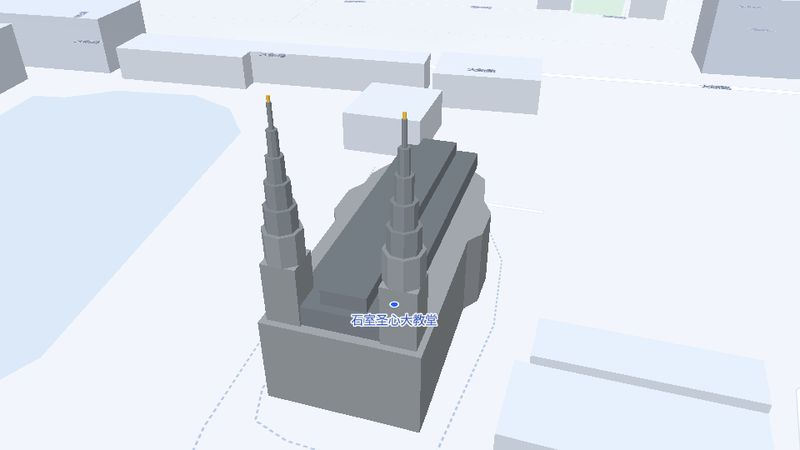
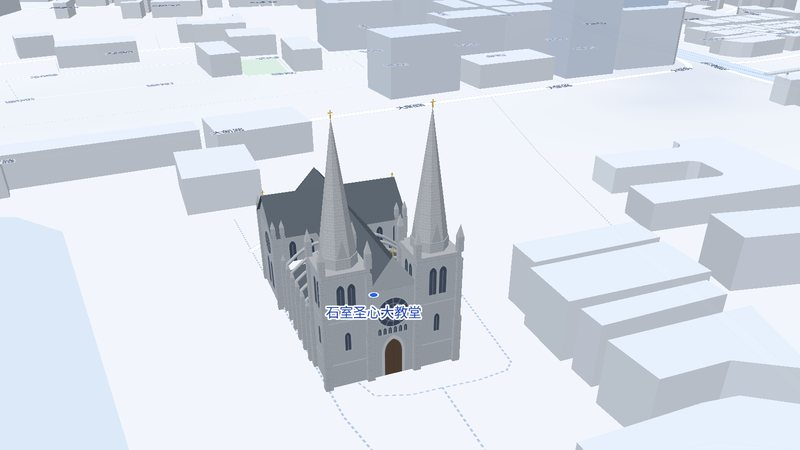
地标名胜：新增广州塔、珠江新城超高层、省博、海心沙、中信广场、广交会展馆、猎德大桥 15 处；点三维建模打开地标卡片
Claude-Session: https://claude.ai/code/session_016HVnGNNWa4PU1gM4ShfCFG

diff --git a/index.html b/index.html
@@ -487,6 +487,7 @@ body.pure .maplibregl-marker,body.pure .detail,body.pure .drawer,body.pure .scri
 .pin-photo.is-active .pb{border-color:var(--blue)}
 .pin-mark .pb{display:flex;align-items:center;gap:0;padding:5px;border-radius:10px;background:var(--blue);color:var(--white);font-size:12.5px;font-weight:500;white-space:nowrap;border:1.5px solid var(--white);transition:gap .2s,padding .2s}
 .pin-mark .pb svg{width:15px;height:15px;flex:none}
+.pin-mark.lm-hid{visibility:hidden;pointer-events:none}
 .pin-mark .lbl{max-width:0;overflow:hidden;transition:max-width .25s}
 .pin-mark:hover .pb,.pin-mark.is-active .pb{gap:6px;padding-right:10px}
 .pin-mark:hover .lbl,.pin-mark.is-active .lbl{max-width:240px}
@@ -1073,6 +1074,68 @@ const SITE = {
       facts: { 正式名称: '广州解放纪念像', 落成: '1959 年', 位置: '越秀区 · 海珠广场' },
       intro: '海珠广场正中的雕像，纪念 1949 年 10 月广州解放，1959 年落成。雕像是一名手持步枪、怀抱鲜花的解放军战士，广场南面就是海珠桥和珠江。',
       thoughts: '写下你对海珠广场的理解。', sample: true },
+    // ---- 城市新地标：地图上用 three.js 建了模的那些（点建模也能打开卡片）。kind: 'new' 在列表里单独成组；
+    //      minor: true 的几座写字楼挨得近，缩小时图钉和别的叠在一起就先藏起来；meta 是列表右边的小字；zoom / pitch 是“定位”时的镜头
+    { id: 'l27', city: 'gz', kind: 'new', meta: '600 m', name: '广州塔', en: 'Canton Tower', lnglat: [113.31914, 23.10901], zoom: 14.9, pitch: 64,
+      facts: { 高度: '600 m（塔身 454 m + 天线桅杆 146 m）', 开放: '2010 年', 设计: 'IBA（Mark Hemel、Barbara Kuit）、奥雅纳' },
+      intro: '珠江南岸、新城市中轴线南端的电视观光塔，昵称“小蛮腰”。塔身是上下两个椭圆之间扭转的钢结构网格，越往中间越细。2009 年封顶后成了世界最高的电视塔，2011 年才被东京晴空塔超过。塔顶外沿有一圈透明的观光舱，绕着屋顶慢慢转。',
+      thoughts: '写下你对广州塔的理解。', sample: true },
+    { id: 'l28', city: 'gz', kind: 'new', meta: '438.6 m', name: '广州国际金融中心（西塔）', en: 'Guangzhou International Finance Center', lnglat: [113.3179, 23.12027], zoom: 15.4, pitch: 62,
+      facts: { 高度: '438.6 m · 103 层', 建成: '2010 年', 设计: 'WilkinsonEyre' },
+      intro: '珠江新城中轴线西侧的“西塔”，和东边的东塔隔着花城广场相对。平面是弧边三角形，外面包着一层白色的斜交网格结构。1 到 66 层是写字楼，69 到 98 层是四季酒店，酒店大堂在 70 层。',
+      thoughts: '写下你对西塔的理解。', sample: true },
+    { id: 'l29', city: 'gz', kind: 'new', meta: '530 m', name: '广州周大福金融中心（东塔）', en: 'Guangzhou CTF Finance Centre', lnglat: [113.32065, 23.12021], zoom: 15.3, pitch: 62,
+      facts: { 高度: '530 m · 111 层', 建成: '2016 年', 设计: 'KPF' },
+      intro: '广州最高的楼，也叫“东塔”，和西塔隔着中轴线相对。塔身分几段往上退台，立面是一条条贯通的白色陶土竖肋；裙楼是 K11 商场，最上面 16 层是瑰丽酒店。楼里的日立电梯测试时跑到每秒 21 米，被吉尼斯认证为世界最快的电梯。',
+      thoughts: '写下你对东塔的理解。', sample: true },
+    { id: 'l30', city: 'gz', kind: 'new', meta: '309.6 m', name: '珠江城大厦', en: 'Pearl River Tower', lnglat: [113.31756, 23.12677], zoom: 15.7, pitch: 62,
+      facts: { 高度: '309.6 m · 71 层', 建成: '2011 年', 设计: 'SOM（Adrian Smith、Gordon Gill）' },
+      intro: '主打节能的超高层：两个设备层各开了两个贯通的风洞，里面装着风力涡轮机，再加上双层幕墙、辐射制冷和装了光伏板的遮阳。业主是中国烟草总公司。',
+      thoughts: '写下你对珠江城大厦的理解。', sample: true },
+    { id: 'l31', city: 'gz', kind: 'new', minor: true, meta: '360 m', name: '广晟国际大厦', en: 'The Pinnacle', lnglat: [113.31807, 23.12767], zoom: 15.7, pitch: 62,
+      facts: { 高度: '屋顶 311.9 m · 尖顶 360 m', 层数: '60 层', 建成: '2012 年' },
+      intro: '珠江新城北段的写字楼。切角方形的塔身，顶上两级往里收的塔冠，再接一根尖顶，所以总高比屋顶高出将近 50 米。由广州瀚华建筑设计。',
+      thoughts: '写下你对广晟国际大厦的理解。', sample: true },
+    { id: 'l32', city: 'gz', kind: 'new', minor: true, meta: '302.7 m', name: '利通广场', en: 'Leatop Plaza', lnglat: [113.32034, 23.12848], zoom: 15.8, pitch: 62,
+      facts: { 高度: '屋顶 264.6 m · 天线 302.7 m', 建成: '2012 年', 设计: 'JAHN' },
+      intro: '方形切角的玻璃塔，屋顶朝一个方向斜切成单坡，顶上立着一根天线。由 JAHN 事务所设计，2012 年完工，主要是写字楼。',
+      thoughts: '写下你对利通广场的理解。', sample: true },
+    { id: 'l33', city: 'gz', kind: 'new', minor: true, meta: '296 m', name: '富力盈凯广场', en: 'R&F Yingkai Square', lnglat: [113.31637, 23.12118], zoom: 15.7, pitch: 62,
+      facts: { 高度: '约 296 m · 66 层', 建成: '2014 年', 设计: 'Goettsch Partners' },
+      intro: '方形塔身的两个对角被“捏”掉了：一个角越往上切得越多，另一个越往下切得越多，所以从不同方向看轮廓都不一样。上面几层是广州柏悦酒店，下面是写字楼。',
+      thoughts: '写下你对富力盈凯广场的理解。', sample: true },
+    { id: 'l34', city: 'gz', kind: 'new', minor: true, meta: '267.8 m', name: '广州银行大厦', en: 'Bank of Guangzhou Tower', lnglat: [113.3205, 23.12755], zoom: 15.8, pitch: 62,
+      facts: { 高度: '267.8 m · 57 层', 建成: '2012 年', 用途: '写字楼' },
+      intro: '广州银行的总部大楼，在珠江新城北段，挨着利通广场。玻璃幕墙的塔身，顶部稍微往里收了一圈。',
+      thoughts: '写下你对广州银行大厦的理解。', sample: true },
+    { id: 'l35', city: 'gz', kind: 'new', minor: true, meta: '243 m', name: '富力中心', en: 'R&F Center', lnglat: [113.31643, 23.1199], zoom: 15.9, pitch: 62,
+      facts: { 高度: '243 m · 54 层', 建成: '2007 年', 设计: 'Aedas' },
+      intro: '珠江新城最早落成的一批超高层之一，在华夏路上，正对珠江新城地铁站 B2 出口，是富力地产的总部。平面是两边往里凹的“蝴蝶结”形。',
+      thoughts: '写下你对富力中心的理解。', sample: true },
+    { id: 'l36', city: 'gz', kind: 'new', minor: true, meta: '318.9 m', name: '环球都会广场', en: 'Global City Square', lnglat: [113.3218, 23.12065], zoom: 15.7, pitch: 62,
+      facts: { 高度: '318.9 m · 67 层', 建成: '2016 年', 位置: '天河区 · 珠江新城' },
+      intro: '紧挨在东塔东边的玻璃幕墙写字楼，2011 年动工，2016 年完工。',
+      thoughts: '写下你对环球都会广场的理解。', sample: true },
+    { id: 'l37', city: 'gz', kind: 'new', meta: '2010', name: '广东省博物馆', en: 'Guangdong Museum', lnglat: [113.32142, 23.11742], zoom: 16.4,
+      facts: { 新馆开馆: '2010 年', 设计: '许李严建筑师事务所', 外号: '月光宝盒' },
+      intro: '珠江新城中轴线东侧的新馆，设计取意“珍宝容器”：一只深色的方盒子，外墙和屋顶边缘散着红色、白色的凹槽，像漆盒上的雕刻。夜里红光从一层层外壳之间透出来，所以被叫作“月光宝盒”。',
+      thoughts: '写下你对广东省博物馆的理解。', sample: true },
+    { id: 'l38', city: 'gz', kind: 'new', meta: '2010', name: '海心沙', en: 'Haixinsha Island', lnglat: [113.3195, 23.114], zoom: 16,
+      facts: { 位置: '珠江中的沙洲 · 中轴线南端', 用途: '2010 年亚运会开、闭幕式场地', 现在: '海心沙亚运公园' },
+      intro: '花城广场正南、珠江里的一座沙洲。2010 年广州亚运会把开幕式和闭幕式都放在这里，没有进体育场：看台在岛的西端，弧形朝着东边的水上舞台，看台前立着四根当年挂 LED 帆屏的帆桅。现在是亚运公园，隔江就是广州塔。',
+      thoughts: '写下你对海心沙的理解。', sample: true },
+    { id: 'l39', city: 'gz', kind: 'new', meta: '390.2 m', name: '中信广场', en: 'CITIC Plaza', lnglat: [113.31938, 23.14436], zoom: 15.4, pitch: 62,
+      facts: { 高度: '屋顶 321.9 m · 天线 390.2 m', 层数: '80 层', 建成: '1997 年' },
+      intro: '天河北路上的老牌地标，由刘荣广伍振民建筑师事务所设计。1997 年落成时是全国最高的楼，也曾是世界最高的钢筋混凝土建筑。它和广州东站、珠江新城、广州塔排在同一条新城市中轴线上，两根天线之间挂着红色的“中信”招牌。',
+      thoughts: '写下你对中信广场的理解。', sample: true },
+    { id: 'l40', city: 'gz', kind: 'new', meta: '琶洲', name: '广交会展馆', en: 'Canton Fair Complex', lnglat: [113.3555, 23.1031], zoom: 15, pitch: 55,
+      facts: { 正式名称: '中国进出口商品交易会展馆', 位置: '海珠区 · 琶洲', 规模: '四期建成后总建筑面积约 168 万 m²' },
+      intro: '每年春、秋两届广交会的主场，2008 年起广交会全部搬到了琶洲。大展厅的屋面是一道道东西走向的长筒形扁拱，两头是整面的玻璃山墙。2022 年底四期（D 区）启用后，号称全球规模最大的会展综合体。',
+      thoughts: '写下你对广交会展馆的理解。', sample: true },
+    { id: 'l41', city: 'gz', kind: 'new', meta: '2009', name: '猎德大桥', en: 'Liede Bridge', lnglat: [113.32855, 23.11189], zoom: 15.8, pitch: 62,
+      facts: { 结构: '独塔自锚式悬索桥', 跨径: '219 m + 167 m', 通车: '2009 年' },
+      intro: '连接天河区猎德和海珠区的跨江大桥，2009 年 7 月通车。全桥只有一座桥塔，塔身像两片合在一起的贝壳，桥面从中间穿过；主缆从塔顶垂下来，锚在两头的桥面上。',
+      thoughts: '写下你对猎德大桥的理解。', sample: true },
   ],
 
   // 成长轨迹：按时间顺序排列；地图上每个阶段一种颜色（颜色在 STAGE_COL 里改），坐标取自 OpenStreetMap（WGS-84）
@@ -2106,17 +2169,36 @@ const ThreeModels = {
   build(THREE) {
     const K = modelKit(THREE), scene = new THREE.Scene();
     // each part grows up out of the ground between two zoom levels, in step with the map's own buildings
+    // l: which 地标 card a click on the part opens (珠江新城 is one group of towers: each mesh goes to the footprint it stands in)
     const parts = [
-      { g: buildCanton(THREE, K), z0: 12.4, z1: 13.6 },
-      { g: buildCBD(THREE, K), z0: 13.2, z1: 14.8 },
-      { g: buildMuseum(THREE, K), z0: 13.2, z1: 14.8 },
-      { g: buildHaixinsha(THREE, K), z0: 13.2, z1: 14.8 },
-      { g: buildCitic(THREE, K), z0: 13.2, z1: 14.8 },
-      { g: buildExpo(THREE, K), z0: 13.2, z1: 14.8 },
-      { g: buildCathedral(THREE, K), z0: 13.2, z1: 14.8 },
-      { g: buildLiede(THREE, K), z0: 13.2, z1: 14.4 },
+      { g: buildCanton(THREE, K), z0: 12.4, z1: 13.6, l: 'l27' },
+      { g: buildCBD(THREE, K), z0: 13.2, z1: 14.8, l: { ifc: 'l28', ctf: 'l29', prt: 'l30', pinnacle: 'l31', leatop: 'l32', yingkai: 'l33', bog: 'l34', rfc: 'l35', imp: 'l36' } },
+      { g: buildMuseum(THREE, K), z0: 13.2, z1: 14.8, l: 'l37' },
+      { g: buildHaixinsha(THREE, K), z0: 13.2, z1: 14.8, l: 'l38' },
+      { g: buildCitic(THREE, K), z0: 13.2, z1: 14.8, l: 'l39' },
+      { g: buildExpo(THREE, K), z0: 13.2, z1: 14.8, l: 'l40' },
+      { g: buildCathedral(THREE, K), z0: 13.2, z1: 14.8, l: 'l11' },
+      { g: buildLiede(THREE, K), z0: 13.2, z1: 14.4, l: 'l41' },
     ];
     for (const p of parts) { scene.add(p.g); p.g.traverse((o) => { o.frustumCulled = false; }); }
+    // things a click can hit, each tagged with its landmark id
+    const inPoly = (pt, r) => { let c = false; for (let i = 0, j = r.length - 1; i < r.length; j = i++) { const [xi, yi] = r[i], [xj, yj] = r[j]; if ((yi > pt[1]) !== (yj > pt[1]) && pt[0] < ((xj - xi) * (pt[1] - yi)) / (yj - yi) + xi) c = !c; } return c; };
+    const cbdCen = Object.fromEntries(Object.keys(CBD_FP).map((k) => [k, K.centroid(K.ccw(CBD_FP[k]))]));
+    const v = new THREE.Vector3();
+    this.pickables = [];
+    for (const p of parts) p.g.traverse((o) => {
+      if (!o.isMesh) return;
+      let id = p.l;
+      if (typeof id === 'object') {
+        const bb = o.isInstancedMesh ? (o.computeBoundingBox(), o.boundingBox) : (o.geometry.computeBoundingBox(), o.geometry.boundingBox);
+        bb.getCenter(v); const pt = [v.x, -v.z];
+        let key = Object.keys(id).find((k) => inPoly(pt, CBD_FP[k]));
+        if (!key) key = Object.keys(id).reduce((a, k) => (Math.hypot(cbdCen[k][0] - pt[0], cbdCen[k][1] - pt[1]) < Math.hypot(cbdCen[a][0] - pt[0], cbdCen[a][1] - pt[1]) ? k : a));
+        id = id[key];
+      }
+      o.userData.l = id; o.userData.part = p.g; this.pickables.push(o);
+    });
+    this.T = THREE; this.ray = new THREE.Raycaster();
     const skin = parts[0].g.children.find((o) => o.material && o.material.transparent);
     const hemi = new THREE.HemisphereLight(0xffffff, 0xa9b9cf, 2.1); scene.add(hemi);
     const sun = new THREE.DirectionalLight(0xffffff, 1.9); sun.position.set(-0.55, 1, 0.45); scene.add(sun);
@@ -2140,7 +2222,7 @@ const ThreeModels = {
         for (const p of parts) { const k = Math.min(1, Math.max(0, (z - p.z0) / (p.z1 - p.z0))); p.g.visible = k > 0.002; p.g.scale.y = Math.max(k, 0.002); }
         if (skin) skin.material.opacity = 0.34 - 0.24 * Math.min(1, Math.max(0, (z - 14.5) / 2));
         night(performance.now());
-        camera.projectionMatrix = new THREE.Matrix4().fromArray(matrix).multiply(l);
+        camera.projectionMatrix = this.camM = new THREE.Matrix4().fromArray(matrix).multiply(l);
         renderer.resetState(); renderer.render(scene, camera);
       },
     }, 'bld');
@@ -2148,6 +2230,16 @@ const ThreeModels = {
     for (const id of ['tower', 'models-fb']) if (map.getLayer(id)) map.setLayoutProperty(id, 'visibility', 'none');
     this.nightTarget = this.n = Night.on ? 1 : 0;
     map.triggerRepaint();
+  },
+  // which landmark model is under a screen point (cast a ray through the same matrix the models were drawn with)
+  pick(pt) {
+    if (!this.camM || !this.pickables || map.getZoom() < 13.4) return null;
+    const T = this.T, c = map.getCanvas(), x = (pt.x / c.clientWidth) * 2 - 1, y = 1 - (pt.y / c.clientHeight) * 2;
+    const inv = this.camM.clone().invert(), a = new T.Vector3(x, y, -1).applyMatrix4(inv), b = new T.Vector3(x, y, 1).applyMatrix4(inv);
+    this.ray.set(a, b.sub(a).normalize());
+    const hit = this.ray.intersectObjects(this.pickables, false).find((h) => h.object.userData.part.visible && h.object.userData.part.scale.y > 0.5);
+    const id = hit && hit.object.userData.l;
+    return id && SITE.landmarks.some((l) => l.id === id) ? id : null;
   },
 };
 // 模型数据（建模、桥梁）用 gzip + base64 打包，体积约为原来的六分之一
@@ -2284,8 +2376,24 @@ function initMap() {
   map.on('click', 'lm-3d', (e) => { if (state.pure) return; const id = lmId(e); if (id) openDetail('landmark', id); });
   map.on('mousemove', 'lm-3d', (e) => { map.getCanvas().style.cursor = lmId(e) ? 'pointer' : ''; });
   map.on('mouseleave', 'lm-3d', () => { map.getCanvas().style.cursor = ''; });
+  // three.js 建模（广州塔、珠江新城、博物馆、猎德大桥……）：点到哪座就开哪座的地标卡片
+  const onPin = (e) => e.originalEvent && e.originalEvent.target && e.originalEvent.target.closest && e.originalEvent.target.closest('.maplibregl-marker, .maplibregl-popup');
+  map.on('click', (e) => { if (state.pure || onPin(e)) return; const id = ThreeModels.pick(e.point); if (id) openDetail('landmark', id); });
+  let pickQ = null, pickBusy = false, pickHot = false;
+  map.on('mousemove', (e) => {
+    if (state.pure || !ThreeModels.pickables) return;
+    pickQ = e.point;
+    if (pickBusy) return;
+    pickBusy = true;
+    requestAnimationFrame(() => {
+      pickBusy = false;
+      const id = pickQ && !map.isMoving() && !onPin(e) ? ThreeModels.pick(pickQ) : null;
+      if (id) { map.getCanvas().style.cursor = 'pointer'; pickHot = true; } else if (pickHot) { map.getCanvas().style.cursor = ''; pickHot = false; }
+    });
+  });
   map.on('zoom', () => { const z = map.getZoom(), c = map.getContainer(); c.classList.toggle('near', z >= 15.5); c.classList.toggle('far', z < 13.4); FoodGroups.update(); });
   map.on('pitchend', () => { state.is3d = map.getPitch() > 5; });
+  map.on('move', () => { if (state.module === 'landmark' && !lmDQ) lmDQ = requestAnimationFrame(() => { lmDQ = 0; lmDeclutter(); }); });
   LookUp.init();
   map.on('move', syncAltitude);
   map.on('mousemove', (e) => { state.cursor = e.lngLat; syncAltitude(); });
@@ -2456,6 +2564,22 @@ function showMarkers(type) {
   // MapLibre writes a generic "Map marker" aria-label on addTo — put ours back
   ensureMarkers(type).forEach((x) => { const e = x.m.getElement(); const l = e.dataset.label || e.getAttribute('aria-label'); e.dataset.label = l; x.m.addTo(map); e.setAttribute('aria-label', l); });
   if (type === 'food') FoodGroups.show(); else FoodGroups.hide();
+  if (type === 'landmark') lmDeclutter();
+}
+// 珠江新城几座写字楼（minor）挨得近：缩小时图钉和别的地标叠在一起，就先藏起来，放大分开了再出现
+let lmDQ = 0;
+function lmDeclutter() {
+  if (!map || state.module !== 'landmark' || !markers.landmark.length) return;
+  const items = markers.landmark.map((x) => ({ x, it: SITE.landmarks.find((l) => l.id === x.id) })).filter((o) => o.it);
+  const near = map.getContainer().classList.contains('far') || map.getContainer().classList.contains('tilted') ? 16 : 28;
+  const kept = items.filter((o) => !o.it.minor).map((o) => map.project(o.it.lnglat));
+  for (const o of items) {
+    if (!o.it.minor) continue;
+    const p = map.project(o.it.lnglat);
+    const hide = state.active !== o.it.id && kept.some((q) => Math.abs(q.x - p.x) < near && Math.abs(q.y - p.y) < near);
+    o.x.m.getElement().classList.toggle('lm-hid', hide);
+    if (!hide) kept.push(p);
+  }
 }
 function setTrail(on) {
   if (!map || !map.getSource('trail')) return;
@@ -2486,7 +2610,7 @@ function itemsFor(mod, city) { return MODULES.find((m) => m.id === mod).items().
 function itemLabel(mod, i) {
   if (mod === 'food') return [i.name, i.lnglat ? scoreTxt(i) : i.branches ? `连锁 ${i.branches.length}` : '未标点'];
   if (mod === 'street') return [i.title, i.date ? i.date.slice(2, 7).replace('-', '.') : i.place.split(' · ').pop()];
-  if (mod === 'landmark') return [i.name, ''];
+  if (mod === 'landmark') return [i.name, i.meta || ''];
   if (i.stage) return [`${i.stage} · ${i.short || i.place}`, i.years ? i.years.slice(0, 4) : ''];
   if (!i.date) return [i.short || i.place, ''];
   return [i.title, i.date.slice(5).replace('-', '.')];
@@ -2520,7 +2644,12 @@ function renderCities() {
           for (const i of g) html += `<li><button class="item-btn${i.lnglat ? '' : ' nopin'}" data-item="${i.id}" data-type="food" aria-current="${state.active === i.id}"><span>${esc(i.name)}</span><span class="meta">${i.lnglat ? scoreTxt(i) : i.branches ? `连锁 ${i.branches.length}` : '未标点'}</span></button></li>`;
         }
       }
-      if (mod.id !== 'food') for (const i of list) { const [a, b] = itemLabel(mod.id, i); html += `<li><button class="item-btn" data-item="${i.id}" data-type="${mod.id}" aria-current="${state.active === i.id}"><span>${esc(a)}</span><span class="meta">${esc(b)}</span></button></li>`; }
+      // 地标分两组：名胜古迹 / 城市新地标（kind: 'new'）
+      const lmGroups = mod.id === 'landmark' ? [['名胜古迹', list.filter((i) => i.kind !== 'new')], ['城市新地标', list.filter((i) => i.kind === 'new')]].filter((g) => g[1].length) : null;
+      if (mod.id !== 'food') for (const [gname, g] of lmGroups || [[null, list]]) {
+        if (gname) html += `<li class="group-label">${gname} · ${g.length}</li>`;
+        for (const i of g) { const [a, b] = itemLabel(mod.id, i); html += `<li><button class="item-btn" data-item="${i.id}" data-type="${mod.id}" aria-current="${state.active === i.id}"><span>${esc(a)}</span><span class="meta">${esc(b)}</span></button></li>`; }
+      }
       html += '</ul>';
     }
     html += '</li>';
@@ -2689,7 +2818,7 @@ function flyToItem(item, force) {
   const off = mq.matches ? [0, -Math.round(window.innerHeight * 0.2)] : [-190, 40];
   const lm = SITE.landmarks.includes(item);
   const zoom = lm ? (item.zoom || 16.7) : Math.max(force ? 16.4 : 15.4, Math.min(map.getZoom(), 16.6));
-  map.flyTo({ center: item.lnglat, zoom, pitch: state.is3d ? (lm ? 60 : 55) : 0, offset: off, ...(mq.matches ? {} : { padding: hudPadding() }), duration: reduceMotion ? 0 : 1400, essential: true });
+  map.flyTo({ center: item.lnglat, zoom, pitch: state.is3d ? (lm ? item.pitch || 60 : 55) : 0, offset: off, ...(mq.matches ? {} : { padding: hudPadding() }), duration: reduceMotion ? 0 : 1400, essential: true });
 }
 // 扫街小图：图片加载完再淡入；鼠标移动时轻微倾斜 + 高光；点开全屏
 function bindShots(d, item) {
